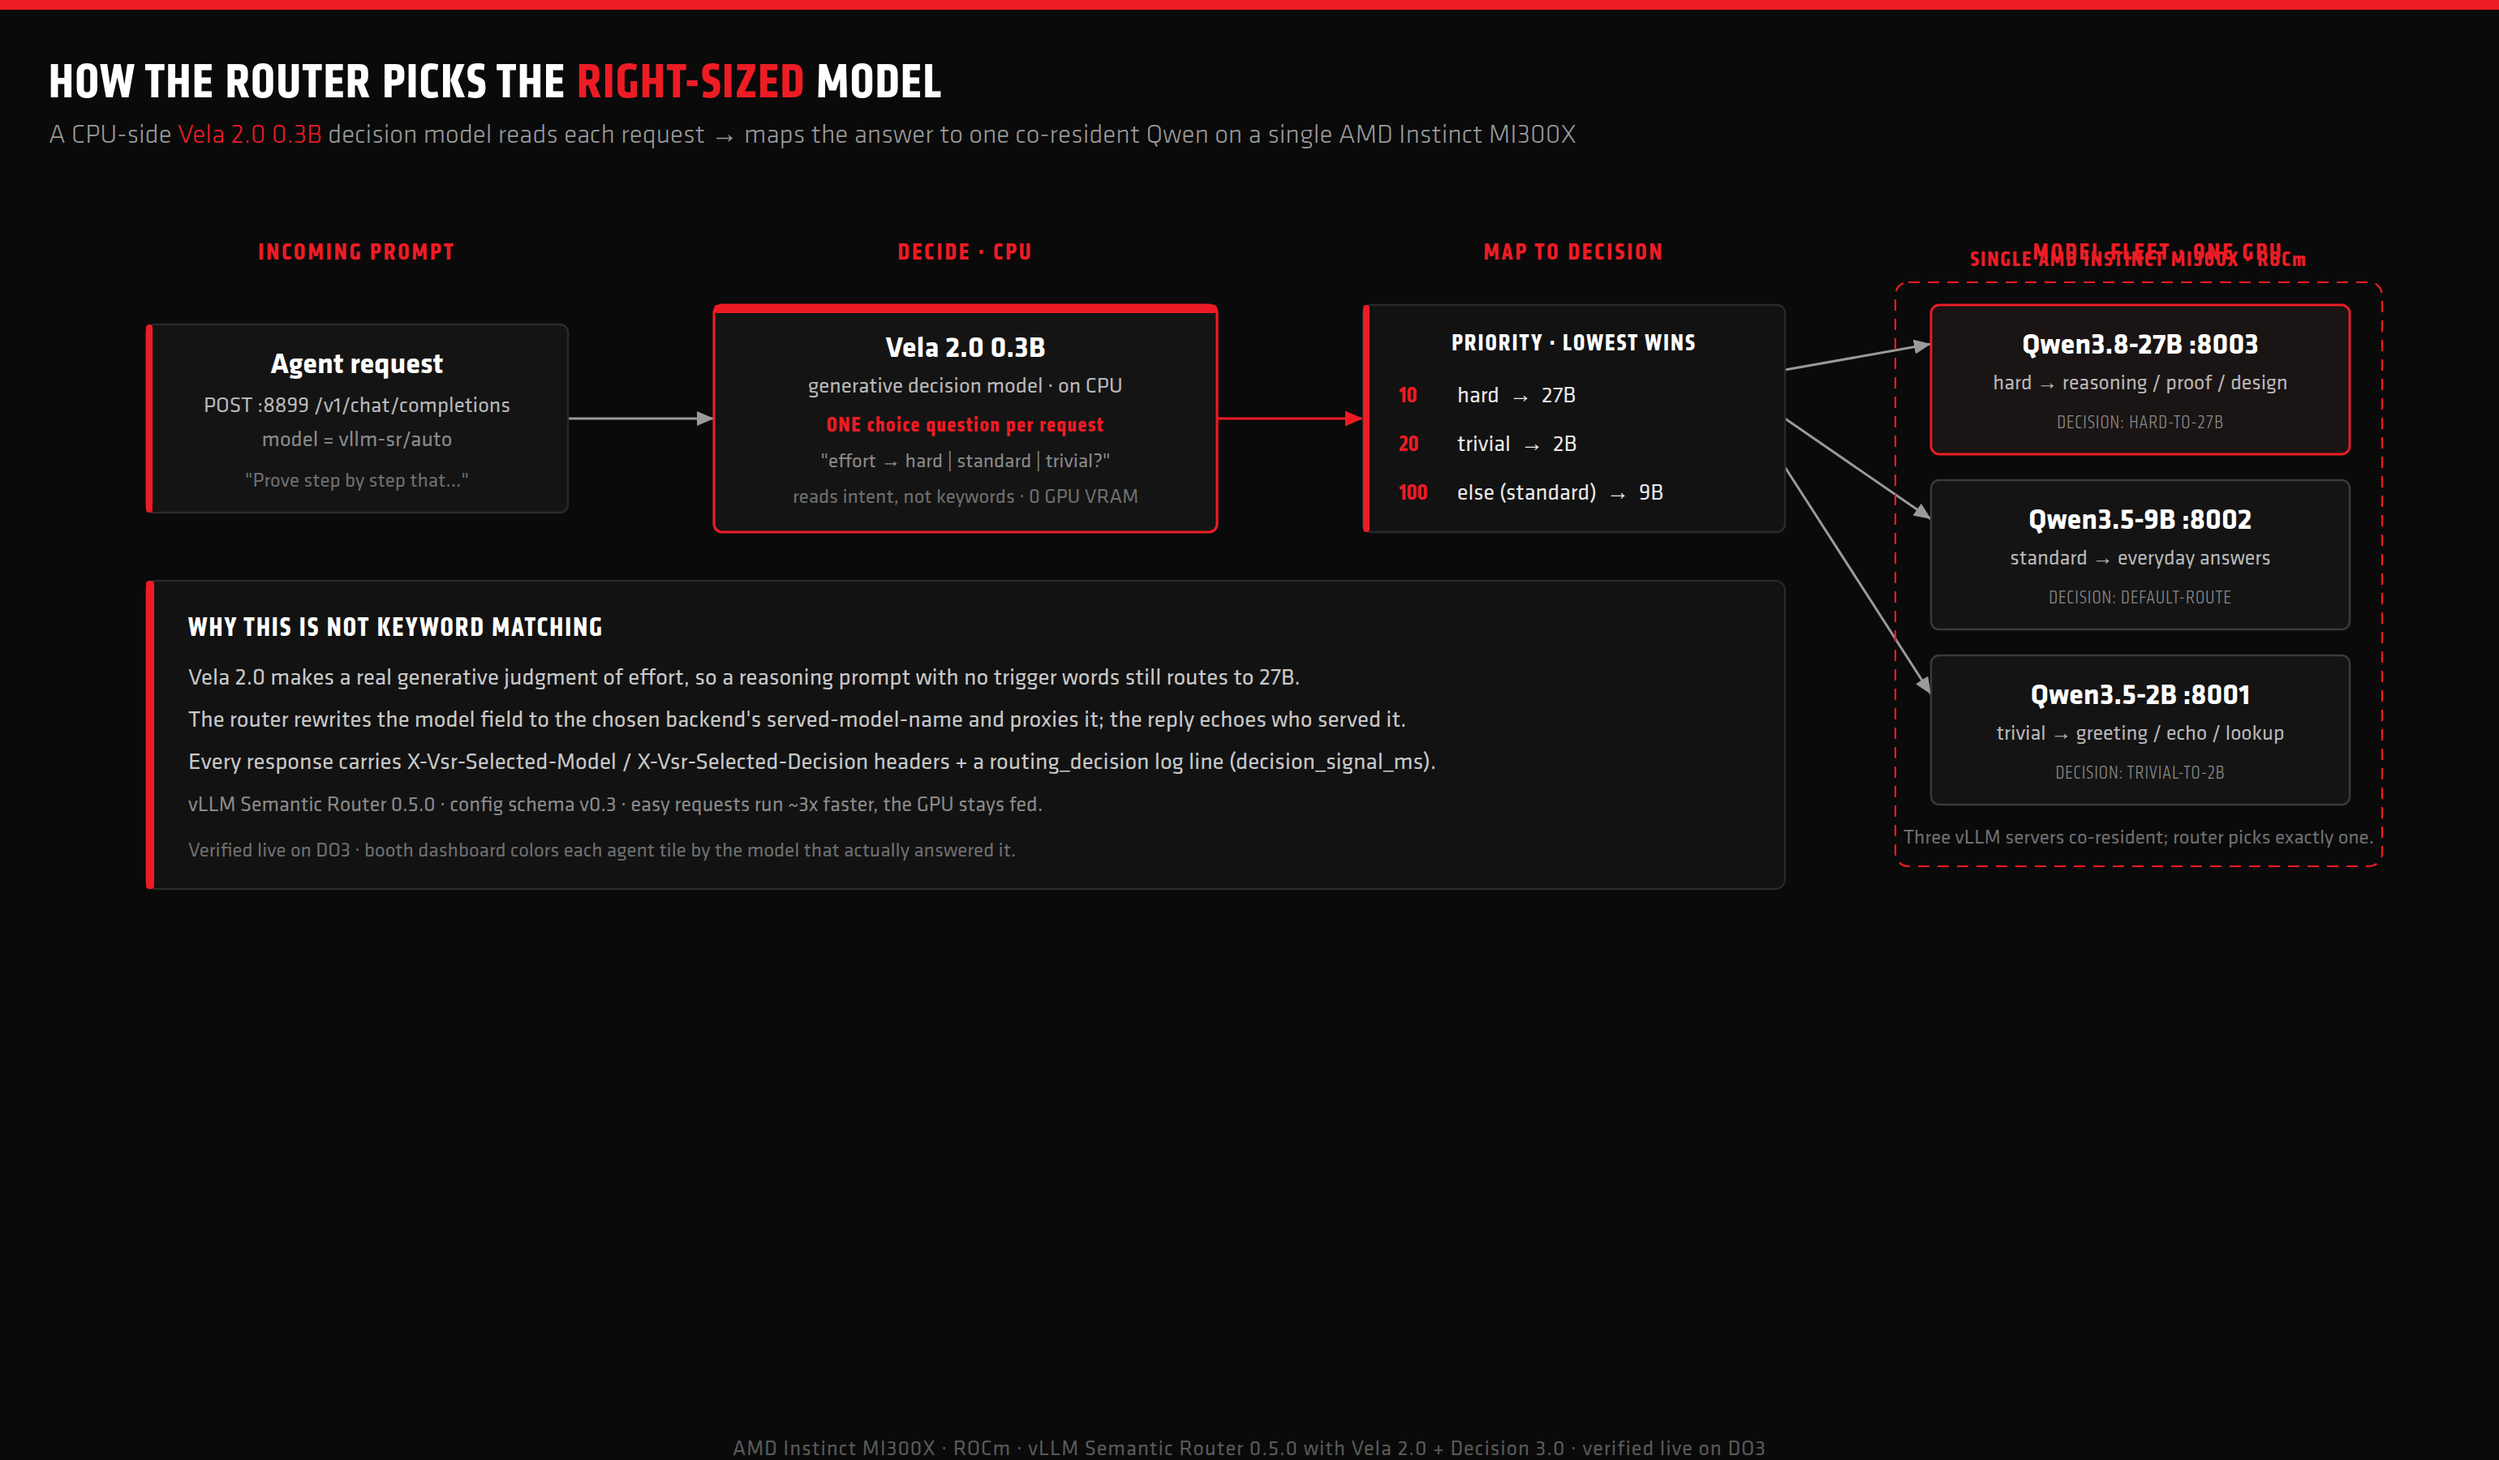
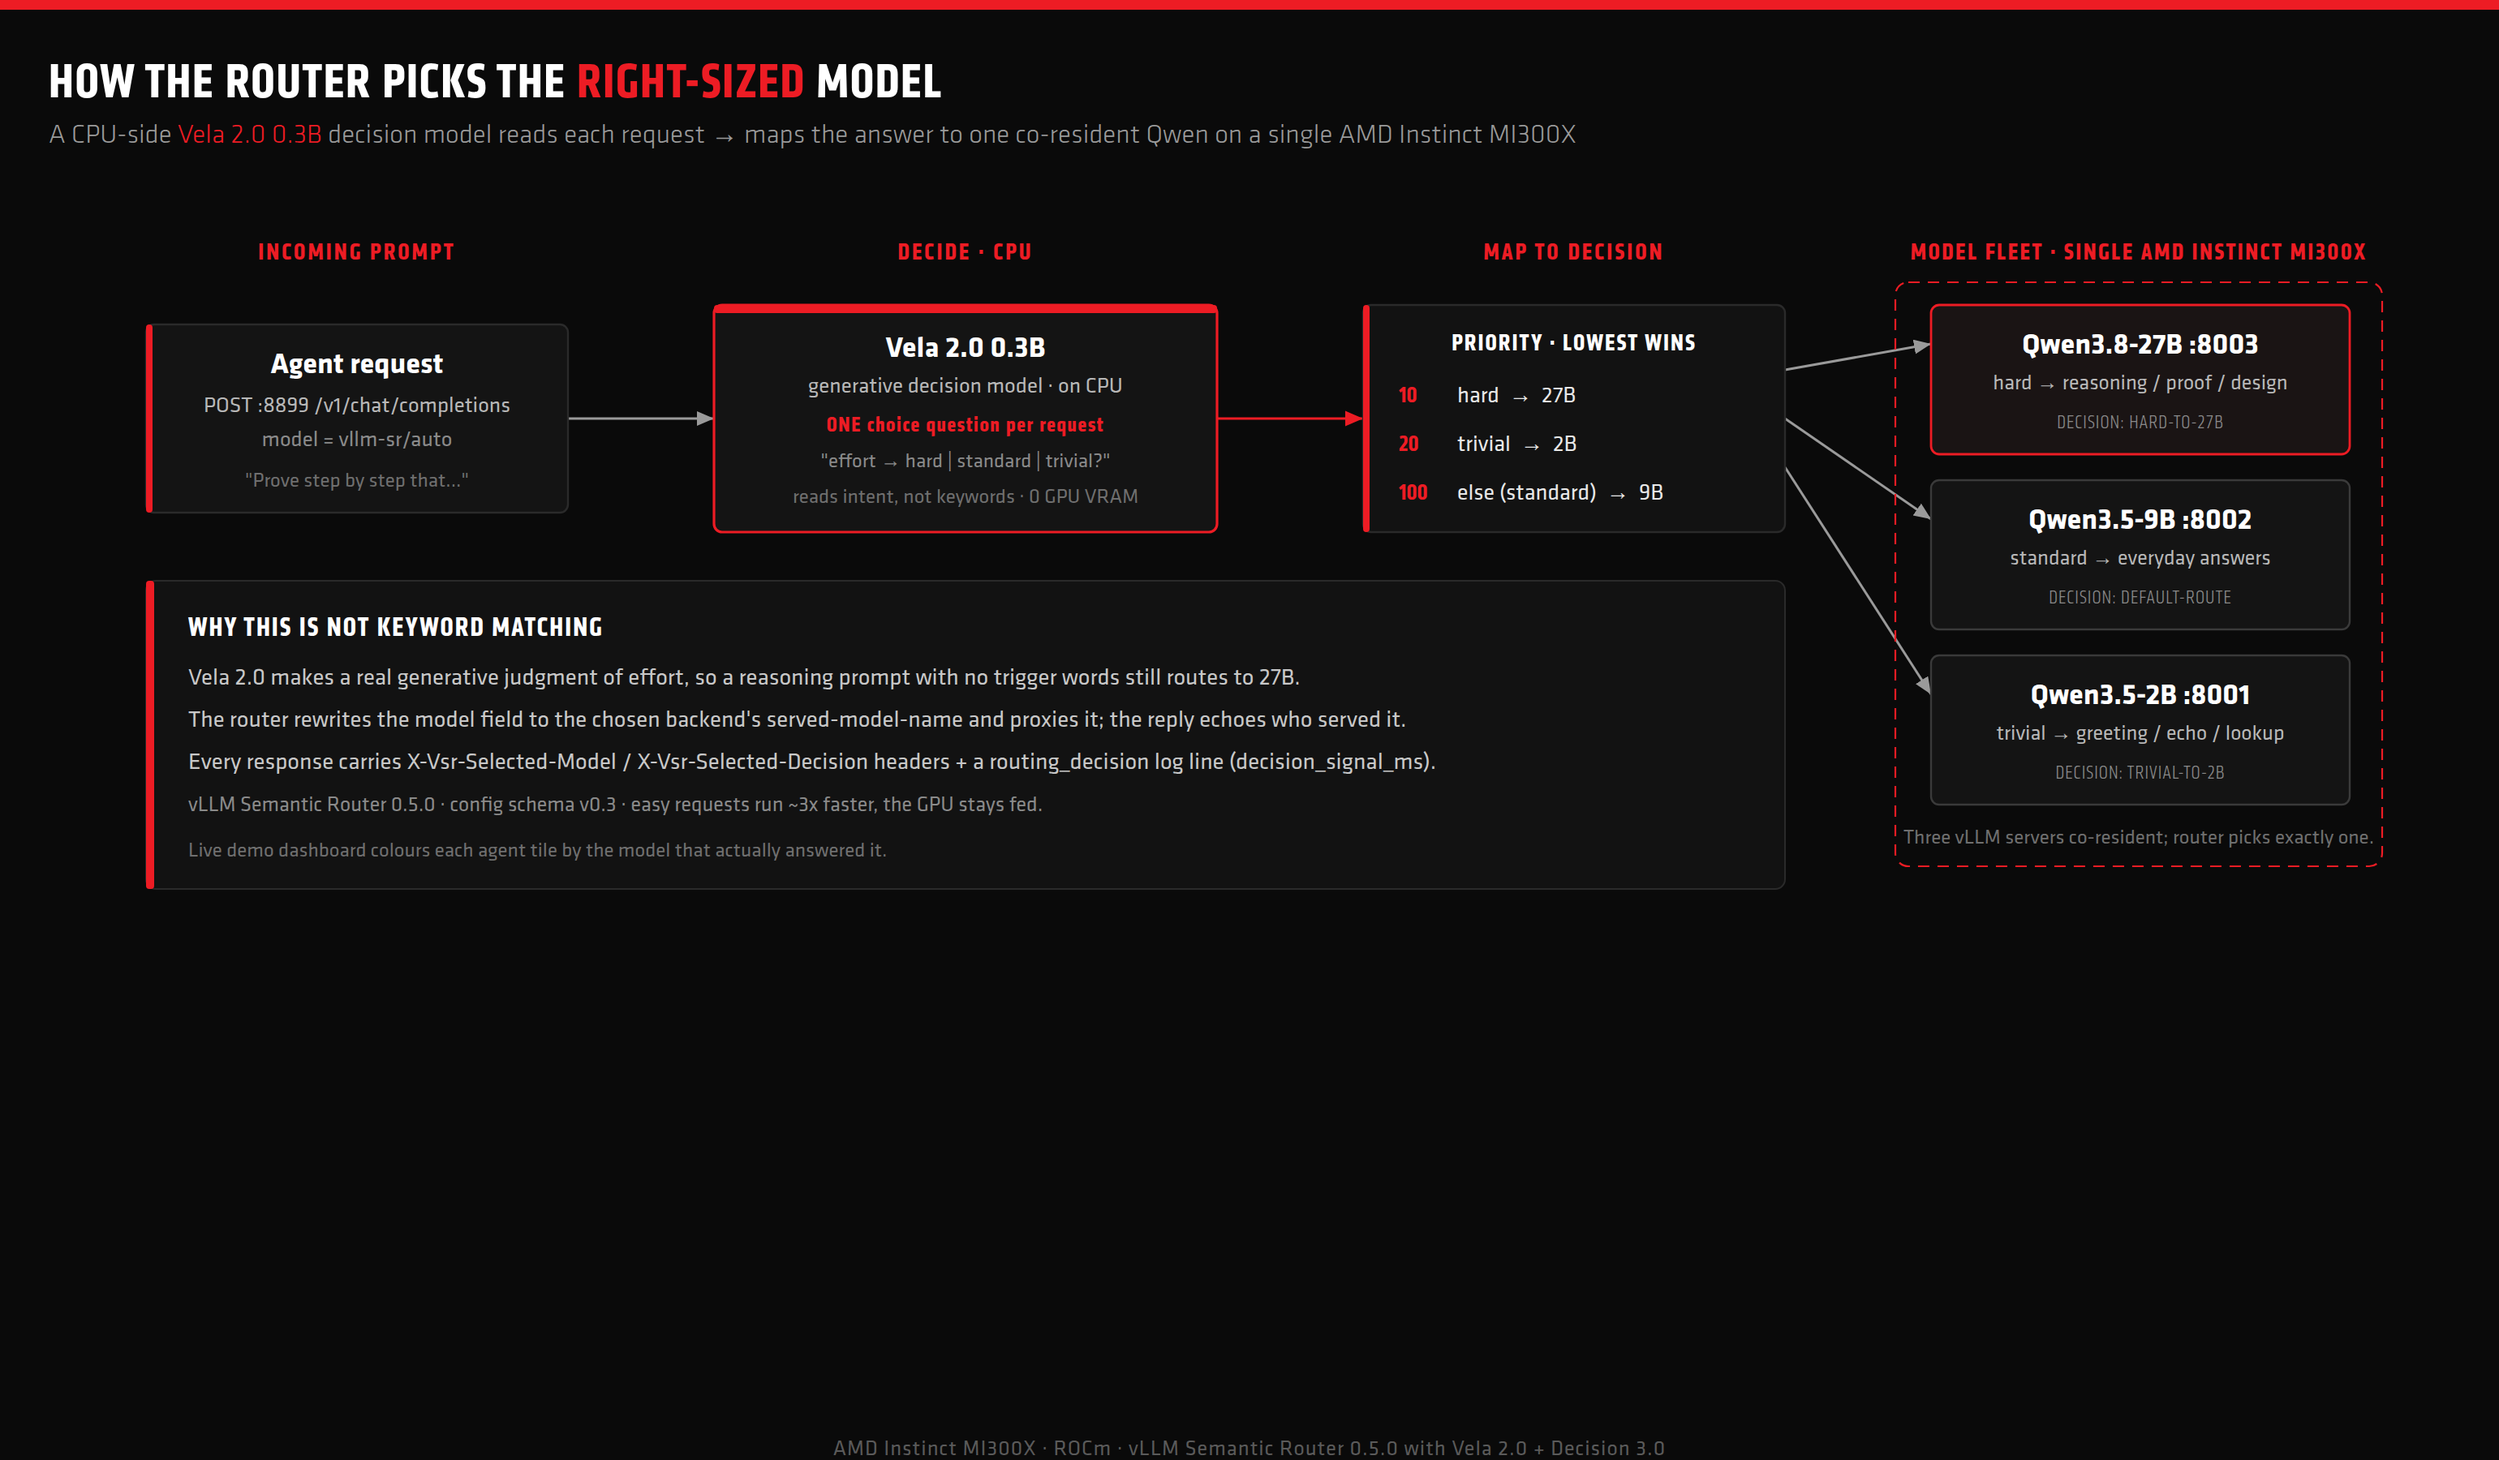
Fix routing diagram: merge overlapping 4th-column header, replace 'Verified live on DO3' with live demo dashboard line

Changed region(s): [[0.3117, 0.9644, 0.6857, 1.0], [0.0623, 0.56, 0.4052, 0.5911], [0.7481, 0.1556, 0.9351, 0.1867]]

diff --git a/docs/diagrams/src/diagram2-routing.html b/docs/diagrams/src/diagram2-routing.html
@@ -36,7 +36,6 @@ h1{font-family:'Klavika Cond',sans-serif;font-weight:700;color:#fff;font-size:30
   <text x="190" y="52" text-anchor="middle" fill="#ED1C24" font-size="15" font-weight="700" font-family="Klavika Cond" letter-spacing="1.5">INCOMING PROMPT</text>
   <text x="565" y="52" text-anchor="middle" fill="#ED1C24" font-size="15" font-weight="700" font-family="Klavika Cond" letter-spacing="1.5">DECIDE &middot; CPU</text>
   <text x="940" y="52" text-anchor="middle" fill="#ED1C24" font-size="15" font-weight="700" font-family="Klavika Cond" letter-spacing="1.5">MAP TO DECISION</text>
-  <text x="1300" y="52" text-anchor="middle" fill="#ED1C24" font-size="15" font-weight="700" font-family="Klavika Cond" letter-spacing="1.5">MODEL FLEET &middot; ONE GPU</text>
 
   <!-- connectors -->
   <line x1="320" y1="150" x2="410" y2="150" stroke="#9a9a9a" stroke-width="1.5" marker-end="url(#aw)"/>
@@ -75,7 +74,7 @@ h1{font-family:'Klavika Cond',sans-serif;font-weight:700;color:#fff;font-size:30
 
   <!-- MI300X boundary -->
   <rect x="1138" y="66" width="300" height="360" rx="8" fill="none" stroke="#ED1C24" stroke-width="1.1" stroke-dasharray="7,5"/>
-  <text x="1288" y="56" text-anchor="middle" fill="#ED1C24" font-size="13.5" font-weight="700" font-family="Klavika Cond" letter-spacing="1">SINGLE AMD INSTINCT MI300X &middot; ROCm</text>
+  <text x="1288" y="52" text-anchor="middle" fill="#ED1C24" font-size="15" font-weight="700" font-family="Klavika Cond" letter-spacing="1.2">MODEL FLEET &middot; SINGLE AMD INSTINCT MI300X</text>
 
   <!-- 27B hard -->
   <rect x="1160" y="80" width="258" height="92" rx="5" fill="#1a1414" stroke="#ED1C24" stroke-width="1.4"/>
@@ -105,8 +104,8 @@ h1{font-family:'Klavika Cond',sans-serif;font-weight:700;color:#fff;font-size:30
   <text x="86" y="340" fill="#c8c8c8" font-size="14.5">The router rewrites the model field to the chosen backend's served-model-name and proxies it; the reply echoes who served it.</text>
   <text x="86" y="366" fill="#c8c8c8" font-size="14.5">Every response carries X-Vsr-Selected-Model / X-Vsr-Selected-Decision headers + a routing_decision log line (decision_signal_ms).</text>
   <text x="86" y="392" fill="#8a8a8a" font-size="13">vLLM Semantic Router 0.5.0 &middot; config schema v0.3 &middot; easy requests run ~3x faster, the GPU stays fed.</text>
-  <text x="86" y="420" fill="#6f6f6f" font-size="12.5">Verified live on DO3 &middot; booth dashboard colors each agent tile by the model that actually answered it.</text>
+  <text x="86" y="420" fill="#6f6f6f" font-size="12.5">Live demo dashboard colours each agent tile by the model that actually answered it.</text>
 </svg></div>
-  <div class="ft">AMD Instinct MI300X &middot; ROCm &middot; vLLM Semantic Router 0.5.0 with Vela 2.0 + Decision 3.0 &middot; verified live on DO3</div>
+  <div class="ft">AMD Instinct MI300X &middot; ROCm &middot; vLLM Semantic Router 0.5.0 with Vela 2.0 + Decision 3.0</div>
 </div>
 </body></html>
